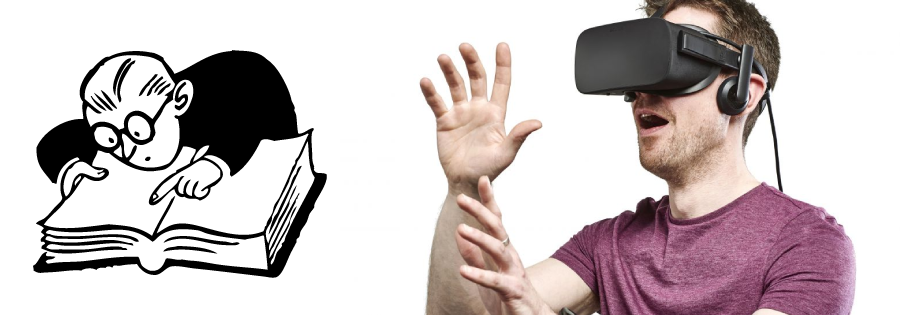
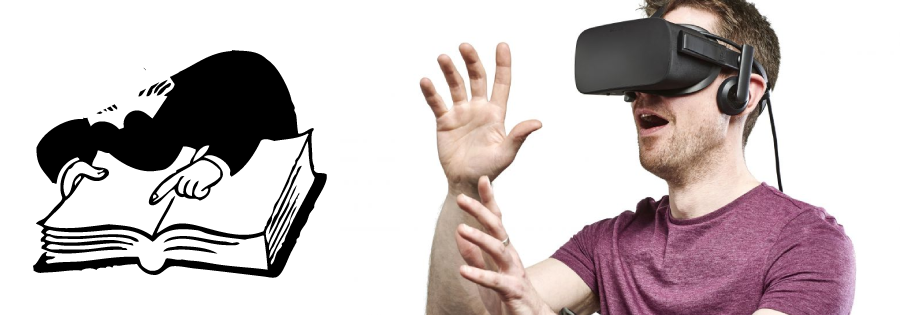
sd

Changed region(s): [[0.0622, 0.1429, 0.2178, 0.5429]]

diff --git a/index.html b/index.html
@@ -29,7 +29,7 @@
 
  <div style="position: relative; left: 0; top: 0;">
   <img src="https://ehaynie63.github.io/eduvr/images/background_photo.png" style="position: relative; top: 0; left: 0;"/>
-  <img class= "shake-slow" src="https://ehaynie63.github.io/eduvr/images/head_to_shake.png" style="position: absolute; top: 0px; bottom: 100px; height: 120px; width: 122px; left: 150px;"/>
+  <img class= "shake-slow" src="https://ehaynie63.github.io/eduvr/images/head_to_shake.png" style="position: absolute; top: 48px; bottom: 0px; height: 120px; width: 122px; left: 64px;"/>
 </div>
 
 
